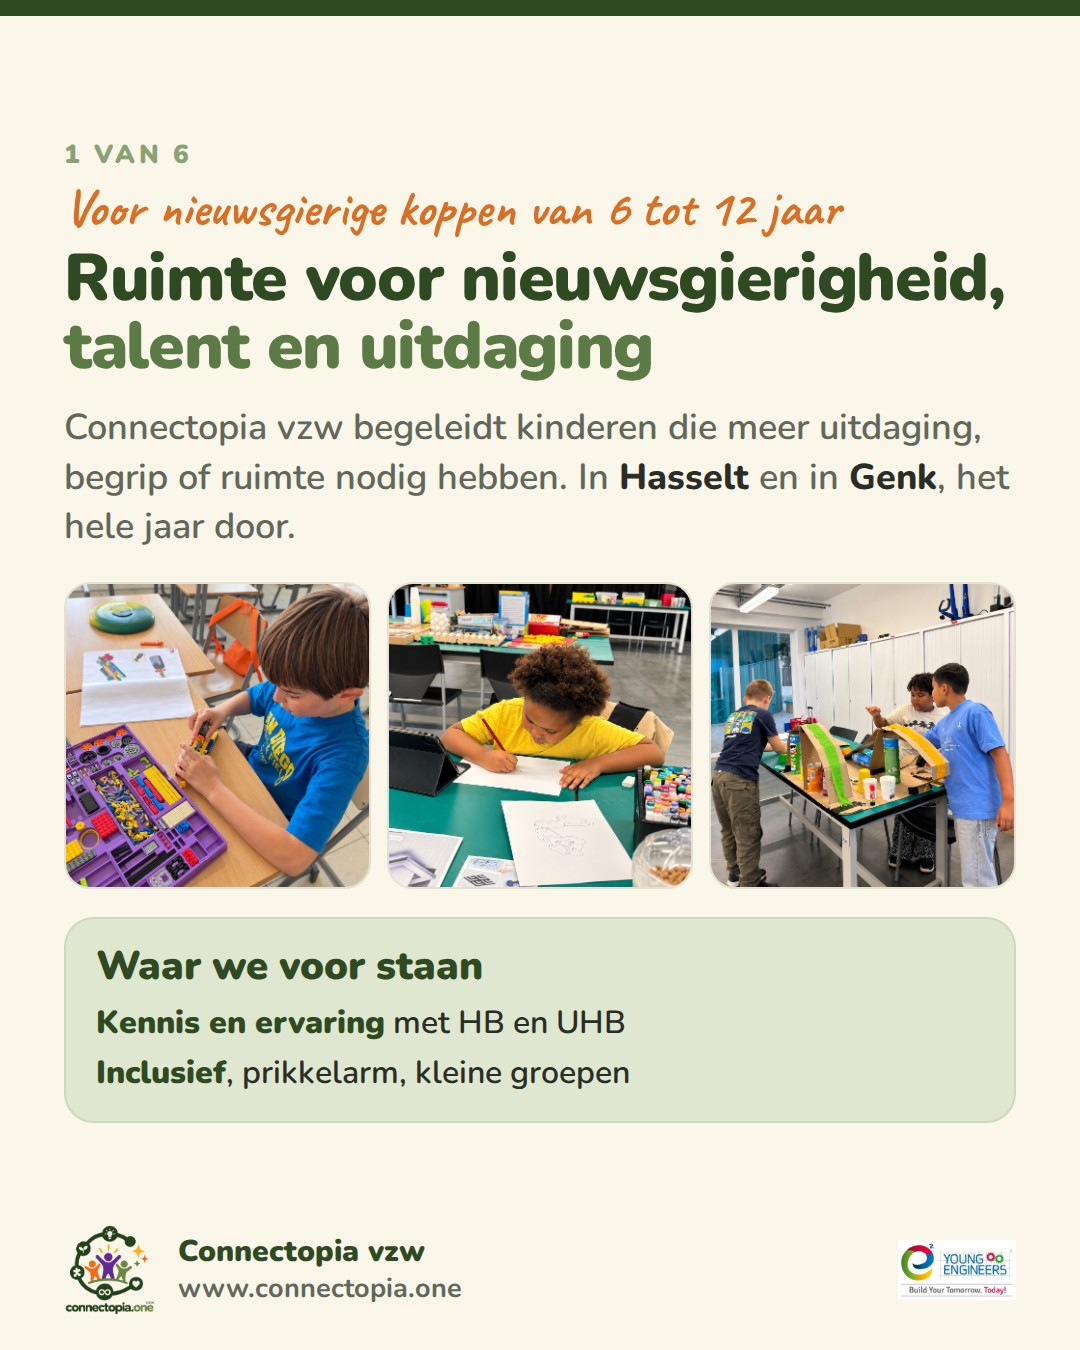
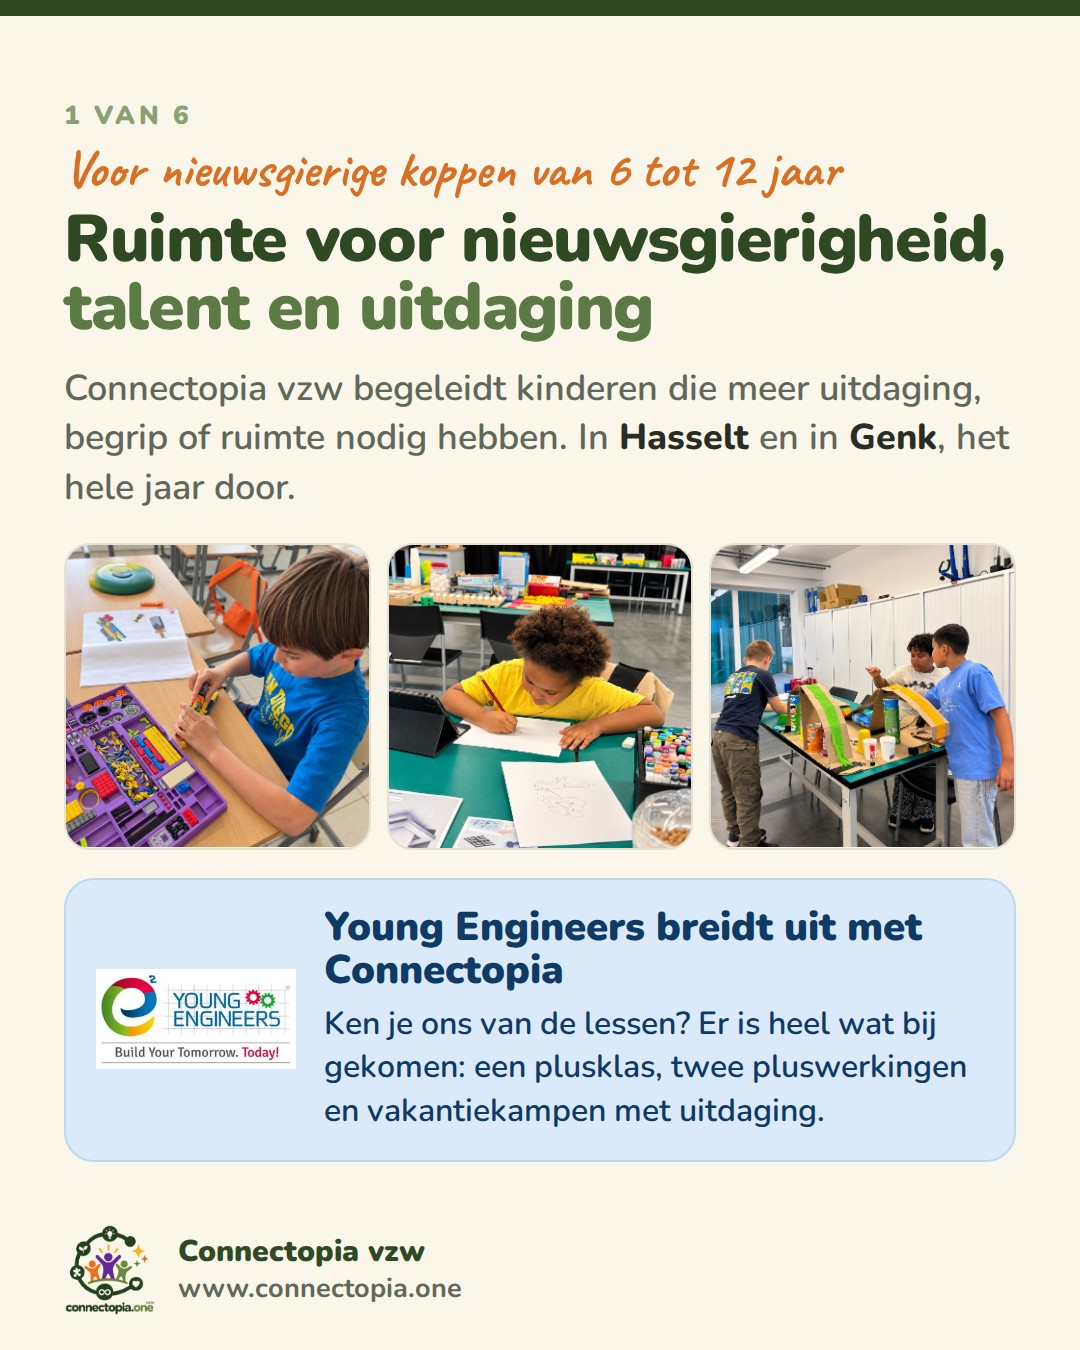
Beeld 1: Young Engineers breidt uit met Connectopia
Kim: de ouders die via whatsapp reageerden zijn zo goed als allemaal via
Young Engineers bij ons gekomen, dus dat moet op het eerste beeld groot
staan.

Het salieblok "Waar we voor staan" op beeld 1 is daarvoor vervangen door
een blauw blok met het Young Engineers-logo en de regel "Young Engineers
breidt uit met Connectopia". Waar we voor staan blijft op beeld 2 staan,
daar vollediger. Het kleine logo in de voettekst van beeld 1 is weg, want
het blok draagt het nu groot.

Claude-Session: https://claude.ai/code/session_01RndGgwwLWLzzwjpvUTuHxJ

diff --git a/drukwerk/whatsapp-reeks/bron/reeks.html b/drukwerk/whatsapp-reeks/bron/reeks.html
@@ -102,6 +102,11 @@
   .blok.oranje { background: var(--orange-soft); border: 2px solid #f0cfae; }
   .blok.paars { background: var(--purple-soft); border: 2px solid #d6c4ec; }
   .blok.wit { background: #fff; border: 2px solid var(--border); }
+  .blok.ye { background: var(--ye-soft); border: 2px solid #bcd9f2;
+             display: grid; grid-template-columns: 200px 1fr; gap: 28px; align-items: center; }
+  .blok.ye img { width: 200px; height: auto; display: block; }
+  .blok.ye h2 { color: var(--ye-navy); }
+  .blok.ye p { margin-top: 10px; color: var(--ye-navy); }
   .blok h2 { font-size: 40px; font-weight: 900; line-height: 1.08; color: var(--green); }
   .blok.oranje h2 { color: var(--orange); }
   .blok.paars h2 { color: var(--purple); }
@@ -159,18 +164,17 @@
       <figure><img src="pluswerking-tekenen.jpg" alt=""></figure>
       <figure><img src="karton-brug-bouwen.jpg" alt=""></figure>
     </div>
-    <div class="blok salie">
-      <h2>Waar we voor staan</h2>
-      <ul>
-        <li><b>Kennis en ervaring</b> met HB en UHB</li>
-        <li><b>Inclusief</b>, prikkelarm, kleine groepen</li>
-      </ul>
+    <div class="blok ye">
+      <img src="ye-logo.png" alt="">
+      <div>
+        <h2>Young Engineers breidt uit met Connectopia</h2>
+        <p>Ken je ons van de lessen? Er is heel wat bij gekomen: een plusklas, twee pluswerkingen en vakantiekampen met uitdaging.</p>
+      </div>
     </div>
   </div>
   <div class="voet">
     <img src="logo-kim-transparant.png" alt="">
     <div class="wie">Connectopia vzw<span>www.connectopia.one</span></div>
-    <img class="ye" src="ye-logo.png" alt="">
   </div>
 </section>
 
